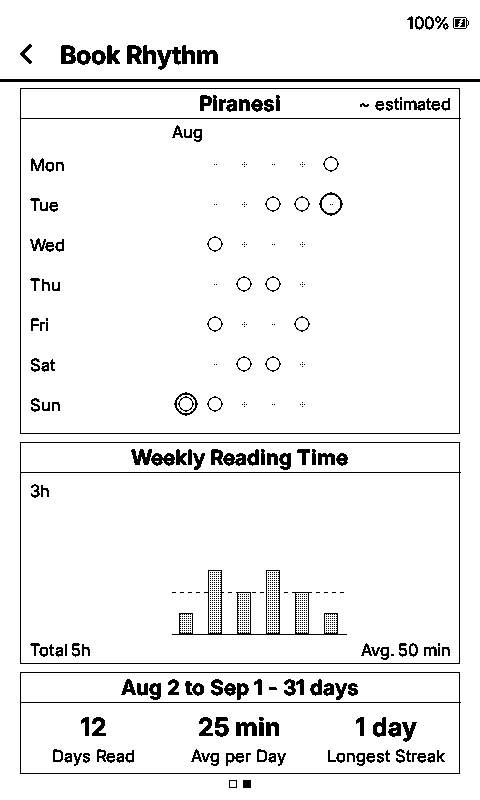
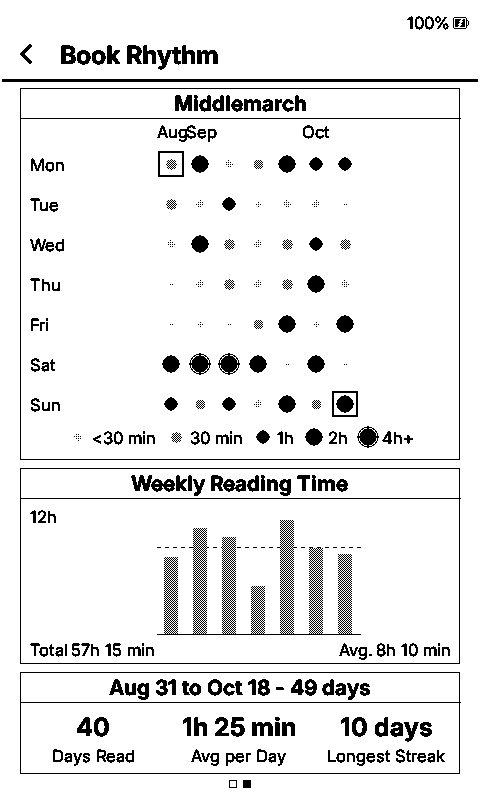
feat: rename fork to CrossRhythm and use square day markers
Point OTA release checks at rosstopherkeen/CrossRhythm and show the
firmware as "CrossRhythm v<version>" in Settings. README title, links
and text follow the new name.

Today (and a book's first/last day) is now marked with a 2px square
frame around the dot instead of a bar underneath, so it stays distinct
from the round 4h+ ring.

Regenerate the Reading Rhythm and Book Rhythm README screenshots in the
x4-pro simulator to show the five-level dots, legend and square marker.

diff --git a/src/activities/reader/rhythm/RhythmStatsView.cpp b/src/activities/reader/rhythm/RhythmStatsView.cpp
@@ -118,9 +118,10 @@ void drawIntensityDot(const GfxRenderer& renderer, const int centerX, const int 
   }
 }
 
-// Short bar under a dot (today, or a book's first/last day); clears the level-5 ring.
+// 2px square frame around a dot (today, or a book's first/last day); clears the level-5 ring.
 void drawDayMarker(const GfxRenderer& renderer, const int centerX, const int centerY, const DotSizes& sizes) {
-  renderer.fillRect(centerX - sizes.active / 2, centerY + sizes.active / 2 + 4, sizes.active, 2);
+  const int frameSize = sizes.active + 8;
+  renderer.drawRect(centerX - frameSize / 2, centerY - frameSize / 2, frameSize, frameSize, 2, true);
 }
 
 int intensityLegendHeight(const GfxRenderer& renderer) {

diff --git a/src/activities/boot_sleep/BootActivity.cpp b/src/activities/boot_sleep/BootActivity.cpp
@@ -114,7 +114,7 @@ bool tryDrawRotatingBootImage(const GfxRenderer& renderer) {
   return pickAndDraw(true);
 }
 
-// CrossInk-Rhythm boot screen: full-screen 1-bit image (src/images/boot-rhythm.bmp)
+// CrossRhythm boot screen: full-screen 1-bit image (src/images/boot-rhythm.bmp)
 // stored as per-row run lengths by scripts/bmp_to_boot_header.py (~22 KB of
 // flash instead of 48 KB). Each black run is one fillRect.
 void drawDefaultBootLogo(const GfxRenderer& renderer) {

diff --git a/src/network/OtaUpdater.cpp b/src/network/OtaUpdater.cpp
@@ -28,7 +28,7 @@ OtaUpdater::OtaUpdaterError OtaUpdater::installUpdate(ProgressCallback, void*, s
 
 namespace {
 #ifndef CROSSINK_OTA_RELEASE_URL
-#define CROSSINK_OTA_RELEASE_URL "https://api.github.com/repos/rosstopherkeen/CrossInk-Rhythm/releases/latest"
+#define CROSSINK_OTA_RELEASE_URL "https://api.github.com/repos/rosstopherkeen/CrossRhythm/releases/latest"
 #endif
 
 constexpr char latestReleaseUrl[] = CROSSINK_OTA_RELEASE_URL;

diff --git a/src/util/BuildInfo.cpp b/src/util/BuildInfo.cpp
@@ -15,7 +15,7 @@
 
 namespace AppVersion {
 const char* version() { return CROSSINK_VERSION; }
-const char* versionLabel() { return "CrossInk-Rhythm v" CROSSINK_VERSION; }
+const char* versionLabel() { return "CrossRhythm v" CROSSINK_VERSION; }
 const char* userAgent() { return "CrossInk-ESP32-" CROSSINK_VERSION; }
 const char* gitSha() { return CROSSINK_GIT_SHA; }
 const char* gitDirtyFlag() { return CROSSINK_GIT_DIRTY; }

diff --git a/README.md b/README.md
@@ -1,8 +1,8 @@
-# CrossInk-Rhythm
+# CrossRhythm
 
 > A personal fork of [CrossInk](https://github.com/uxjulia/CrossInk) for the **Xteink X4 Pro** that adds two reading stats pages: **Reading Rhythm** and **Books Finished**.
 
-Everything else is stock CrossInk: the same fonts, themes, reader features, settings and data on the SD card. This fork adds two pages to the end of Reading Stats (keeping their data in two new files of its own), its own boot screen, and shows **CrossInk-Rhythm** with the version in Settings. Your existing stats are never changed, so you can flash stock CrossInk back at any time.
+Everything else is stock CrossInk: the same fonts, themes, reader features, settings and data on the SD card. This fork adds two pages to the end of Reading Stats (keeping their data in two new files of its own), its own boot screen, and shows **CrossRhythm** with the version in Settings. Your existing stats are never changed, so you can flash stock CrossInk back at any time.
 
 <table>
   <tr>
@@ -27,7 +27,7 @@ Everything else is stock CrossInk: the same fonts, themes, reader features, sett
 
 How often and how much you read, at a glance:
 
-- **Recent Activity**: a dot for each day over the last 13 weeks, with bigger, darker dots for longer reading days. Today has a ring around it. Below it, the last 7 days show the time read each day.
+- **Recent Activity**: a dot for each day over the last 13 weeks. Dots get bigger and darker in five steps (under 30 min, 30 min, 1h, 2h, and 4h+ with an outer ring), with a legend under the grid. Today has a square around it. Below it, the last 7 days show the time read each day.
 - **Weekly Reading Time**: one bar per week for the same 13 weeks. The current week is solid, and a dashed line marks your average.
 - **Reading Days by Month**: how many days you read in each of the last 12 months, plus the total and the monthly average.
 
@@ -60,21 +60,21 @@ How often and how much you read, at a glance:
 
 <img src="./docs/images/rhythm/book-rhythm.png" width="200" align="right" alt="Book Rhythm page for a single book" />
 
-Each finished book has its own Overview and Book Rhythm pages. The same view opens from **Reading Stats** in a book's long-press menu in the Library or File Browser. Per-book reading minutes are recorded from this firmware on, in `rhythm_days.bin` next to the book's `stats_v5.bin`, which is never changed. Days before that are estimated from your real read days between the book's start and finish dates and drawn lighter. Short books (up to 3 weeks) show daily bars; longer ones show weekly bars for up to the last 13 weeks.
+Each finished book has its own Overview and Book Rhythm pages. The same view opens from **Reading Stats** in a book's long-press menu in the Library or File Browser. Per-book reading minutes are recorded from this firmware on, in `rhythm_days.bin` next to the book's `stats_v5.bin`, which is never changed. Days before that are estimated from your real read days between the book's start and finish dates and drawn lighter. The dots use the same five steps as Reading Rhythm, and the book's first and last days have a square around them. Short books (up to 3 weeks) show daily bars; longer ones show weekly bars for up to the last 13 weeks.
 
 <br clear="right"/>
 
 ### Boot screen and version
 
-<img src="./docs/images/rhythm/boot-screen.png" width="160" align="right" alt="CrossInk-Rhythm boot screen" />
+<img src="./docs/images/rhythm/boot-screen.png" width="160" align="right" alt="CrossRhythm boot screen" />
 
-The default boot screen is replaced by the CrossInk-Rhythm image above (`src/images/boot-rhythm.bmp`, run-length encoded by `scripts/bmp_to_boot_header.py` to about 22 KB of flash). CrossInk's custom boot screen setting still takes priority when it's on. Settings › System shows the firmware as **CrossInk-Rhythm v&lt;version&gt;**.
+The default boot screen is replaced by the CrossRhythm image above (`src/images/boot-rhythm.bmp`, run-length encoded by `scripts/bmp_to_boot_header.py` to about 22 KB of flash). CrossInk's custom boot screen setting still takes priority when it's on. Settings › System shows the firmware as **CrossRhythm v&lt;version&gt;**.
 
 <br clear="right"/>
 
 ### Where to find them
 
-Open **Reading Stats** the usual way. On the X4 Pro that's the frontlight panel, or the reader menu on button devices. Swipe left or press Right/Down past *This Device* (and *All Devices*, if you sync stats). The two new pages share the existing page dots, header and card layout.
+Open **Reading Stats** the usual way. On the X4 Pro that's the frontlight panel, or the reader menu on button devices. Swipe left or press Right/Down past *This Device* (and *All Devices*, if you sync stats). The two new pages share the existing page dots, header and card layout. Weeks start on Monday by default; set **First Day of Week** in Settings › System › Device to start them on Sunday.
 
 The pages need the device clock. On devices without one, Reading Stats keeps its single-screen layout.
 
@@ -100,7 +100,7 @@ Flash a CrossInk release. It ignores `daily_minutes.bin` and `finished_books.bin
 
 ## Installation
 
-1. Download `firmware-x4-pro.bin` from this fork's [releases](https://github.com/rosstopherkeen/CrossInk-Rhythm/releases), or build it yourself (see below).
+1. Download `firmware-x4-pro.bin` from this fork's [releases](https://github.com/rosstopherkeen/CrossRhythm/releases), or build it yourself (see below).
 2. Back up `/.crosspoint/` on your SD card.
 3. Copy the `.bin` to the SD card and install it from **Settings › System › SD Card Firmware Update**.
 
@@ -142,4 +142,4 @@ The fork's code lives in `src/activities/reader/rhythm/`. The hooks into existin
 - **[XPoint](https://github.com/Belphemur/XPoint)** (MIT License, Copyright (c) 2025 CrossPoint Reader organization), where the Reading Rhythm and Books Finished screens and the finished-books file format come from: `ReadingRhythmActivity`, `FinishedBooksActivity`, `FinishedBooksIndex`, and `renderReadingRhythmPage` / `renderFinishedBooksPage` from `BookStatsView.cpp`.
 - **[CrossPoint Reader](https://github.com/crosspoint-reader/crosspoint-reader)**, the upstream firmware for both.
 
-This is a personal fork. Issues with CrossInk itself belong in the [CrossInk repo](https://github.com/uxjulia/CrossInk); issues with the two stats pages belong [here](https://github.com/rosstopherkeen/CrossInk-Rhythm/issues).
+This is a personal fork. Issues with CrossInk itself belong in the [CrossInk repo](https://github.com/uxjulia/CrossInk); issues with the two stats pages belong [here](https://github.com/rosstopherkeen/CrossRhythm/issues).

diff --git a/CHANGELOG.md b/CHANGELOG.md
@@ -6,14 +6,14 @@
 - Books Finished page in Reading Stats: totals plus a scrollable list (with scroll bar) of finished books with start and finish dates and time spent. Tap a book, or select it and press Confirm, to open its stats. Ported from XPoint. Finished books that dropped out of Recent Books are found by scanning existing book caches.
 - Book detail view from Books Finished: an Overview page (that book's stats, time of day and day of week) and a Book Rhythm page (reading days across the book's span, daily or weekly reading time, days read, average per day, longest streak). Per-book daily minutes are now recorded; earlier days are estimated and shown lighter. The same book view opens from a book's Reading Stats action in the Library and File Browser long-press menu.
 - First Day of Week setting (Settings > System > Device): start the Reading Stats calendars, weekly totals and day-of-week bars on Monday or Sunday.
-- New CrossInk-Rhythm boot screen.
+- New CrossRhythm boot screen.
 - Daily reading minutes are now recorded for the Reading Rhythm screen. Minutes for days read before updating are estimated once from each book's reading time and shown lighter.
 
 ### Changed
 
-- Reading Rhythm and Book Rhythm dots now use five levels (<30 min, 30 min, 1h, 2h, 4h+) instead of topping out at 30 minutes, with a legend under the grid. 4h+ days get an outer ring; today (and a book's first and last day) are marked with a bar under the dot.
-- Over-the-air updates now check this fork's releases (rosstopherkeen/CrossInk-Rhythm).
-- Settings shows the firmware as "CrossInk-Rhythm v<version>".
+- Reading Rhythm and Book Rhythm dots now use five levels (<30 min, 30 min, 1h, 2h, 4h+) instead of topping out at 30 minutes, with a legend under the grid. 4h+ days get an outer ring; today (and a book's first and last day) are marked with a square frame around the dot.
+- Over-the-air updates now check this fork's releases (rosstopherkeen/CrossRhythm).
+- Settings shows the firmware as "CrossRhythm v<version>".
 
 ## [v1.6.1] - 2026-10-03
 

diff --git a/.claude/CONTEXT.md b/.claude/CONTEXT.md
@@ -17,6 +17,7 @@ Refer to https://freeink.org/llms.txt for guidance.
   - `esp_deep_sleep_start()` is a no-op in simulator.
   - `HalStorage` uses POSIX file access under `./fs_` and allows multiple readers, unlike real hardware.
   - `lib/HalClockSim` always reports no date, so RTC-dependent stats paths (daily minutes, Reading Rhythm backfill) never run in the simulator; cover them with host tests.
+  - `x4-pro-simulator` has an RTC backed by the host clock (simulator lib `HalClock`), so Reading Rhythm/Book Rhythm pages render there. README screenshots come from it with hand-built `global_stats.bin`, `daily_minutes.bin`, `finished_books.bin` and per-book `stats_v5.bin`/`rhythm_days.bin` under `./fs_/.crosspoint/`, driven by `CROSSPOINT_SIM_INPUT_SCRIPT` + `CROSSPOINT_SIM_SCREENSHOTS`.
 
 ## Real Hardware / Storage
 
